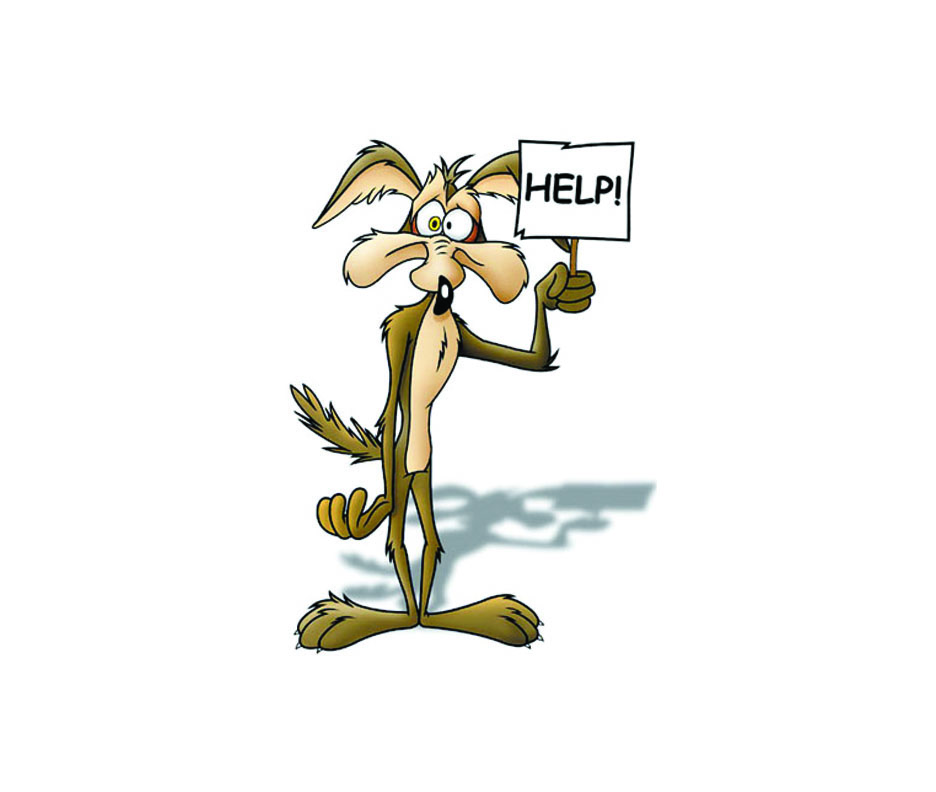
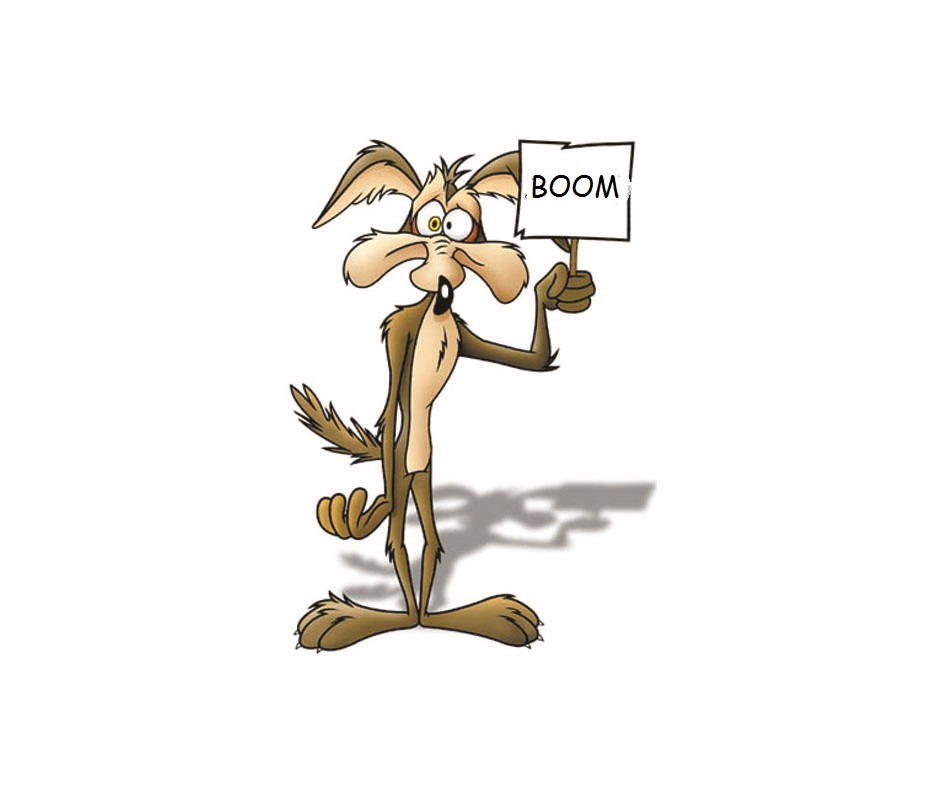
just have  move wiely on game end

Changed region(s): [[0.3098, 0.1818, 0.7126, 0.8182]]

diff --git a/jscript/guessinggame.js b/jscript/guessinggame.js
@@ -13,6 +13,7 @@ var playersGuess,
     winningnumber=0,
     guessedArray=[],
     myinterval
+    gameover=false
     ;		
 
 
@@ -21,8 +22,8 @@ $(document).ready(function(){
 	$("#submitguess").click(function(){
     	playersGuessSubmission();
     });
-    $("#hint").click(function(){provideHint()});
-    $("#replay").click(function(){initGame()});
+    $("#hintbut").click(function(){provideHint()});
+    $("#replaybut").click(function(){initGame()});
     $("#guessinput").focus(function(){starttimer(82);playAudio('theme');});
  $('#guessinput').keypress(function(event){
     if (event.keyCode == 10 || event.keyCode == 13){playersGuessSubmission();
@@ -40,6 +41,7 @@ function initGame(){
 	endGame();
 	playersGuess='',
     newgame=0,
+    gameover=false,
     totalalloedGuesses=5,
     winningnumber=0,
     guessedArray=[],
@@ -51,8 +53,8 @@ function initGame(){
     console.log('winningNumber = '+winningnumber)
     checkGuess(0,winningnumber);
     document.getElementById('countdownText').innerHTML='00-00-00';
-	
-    
+	document.getElementById('hinttext').innerHTML='';
+
     //  $("#replay").click(function(){console.log('replay')});
    
 }
@@ -146,6 +148,7 @@ function playAgain(){
 }
 // create count down timer	
 		 var starttimer=function(secondsAllowed){
+		 	var intervalPassed=0;
  		 	if(newgame > 0 ){return}
 		 	var multiplerFortime=100 		
 		 	var timerValue=secondsAllowed*multiplerFortime; // NUMBER OF SEC IN MILLISECONDS
@@ -163,6 +166,8 @@ function playAgain(){
 				if(seconds < 10){secondsDisplay='0'+seconds}else{secondsDisplay=seconds};
 				var milliseconds=(Math.floor((timerValue%10)));
 				document.getElementById('countdownText').innerHTML=minutesDisplay+'-'+secondsDisplay+'-0'+milliseconds;
+			intervalPassed++;
+			
 			if(timerValue > 0){
 				timerValue--;
 				if(timerValue === 0){
@@ -175,6 +180,7 @@ function playAgain(){
 
 
 var playAudio=function(myAudio){
+	if(gameover===true){return;}
 	document.getElementById(myAudio).play();
 return
 }
@@ -183,7 +189,7 @@ var pauseAudio=function(myAudio){
 return
 }
 var resetAudio=function(myAudio){
-	document.getElementById(myAudio).currentTime=0;
+	document.getElementById(myAudio).currentTime=9.7;
 return
 }
 //
@@ -191,6 +197,6 @@ var endGame = function(){
 	pauseAudio('theme');
 	resetAudio('theme');
 	clearInterval(myinterval);
-	
+	gameover=true;
 }
 /* **** Event Listeners/Handlers ****  */

diff --git a/index.html b/index.html
@@ -14,23 +14,30 @@
 <!-- a sitewide css reference -->
 <!-- an application specific css override file -->
 <body>
-<audio preload="auto" controls  id="theme">
+<audio preload="auto"  id="theme">
  <source src="sounds/ticktickboom.mp3" type="audio/mpeg">
 </audio>
 
 <div id="gameHolder">
 	<img id="dynomite"  src="img/dynamite1-large.png">
-	<div class="sevenseg" id="countdownTimer"><font  id="countdownText"></font></div>
+
+	<div class="sevenseg" id="countdownTimer"><font  id="countdownText">00-00-00</font></div>
 	<div class="sevenseg" id="countMisses"><font id="countMissestext"></font></div>
 	<span id="title">TICK TICK BOOM</span>
 	<div id="usercontrols">
 		<input id="guessinput" type="text"  >	
-		<span  class="glyphicon glyphicon-play" id="submitguess"></span>
-		<span class="glyphicon glyphicon-question-sign"  id="hint"></span>
-		<span class="glyphicon glyphicon-repeat"  id="replay"></span>
-		<div id="hinttext"></div>
-	</div>
 </div>
+	
+
+	<div  id="hintbut"><span class="glyphicon glyphicon-question-sign" ></span>
+</div>
+	<div  id="replaybut"><span class="glyphicon glyphicon-repeat"></span>
+</div>
+<div id="hinttext"></div>
+	
+
+	<img id="Wec" src="img/WileCoyote.jpg">
+
 
 
 

diff --git a/css/ticktickboom.css b/css/ticktickboom.css
@@ -53,9 +53,42 @@ margin-top:0px;
 	font-style: italic;
 }
 #hinttext{
-	font-size: 18px;
+	font-size: 20px;
 	width: 1107px;
 	position: relative;
-	top:-110px;
-	right: 215px;
+	top: -263px;
+	right: -149px;
+}
+#hintbut{
+	z-index: 1000;
+	position: relative;
+	top: -670px;
+	left: 384px;
+	font-size: 30px;
+	color: rgba(255, 255, 192, .5);
+	width: 60px;
+}
+#replaybut{
+	    z-index: 1000;
+    position: relative;
+    top: -640px;
+    left: 384px;
+    font-size: 30px;
+    color: rgba(255, 255, 192, .6);
+    width: 60px;
+}
+#Wec{
+  z-index: -2;
+  width:400px;
+  position: relative;
+  top: -780px;
+  left: 504px;
+  -webkit-transform: rotate(25deg); /* Chrome, Safari, Opera */
+  
+}
+#Wecout{
+  transition
+  left: 704px;
+-webkit-transform: x(100px); /* Chrome, Safari, Opera */
+
 }
